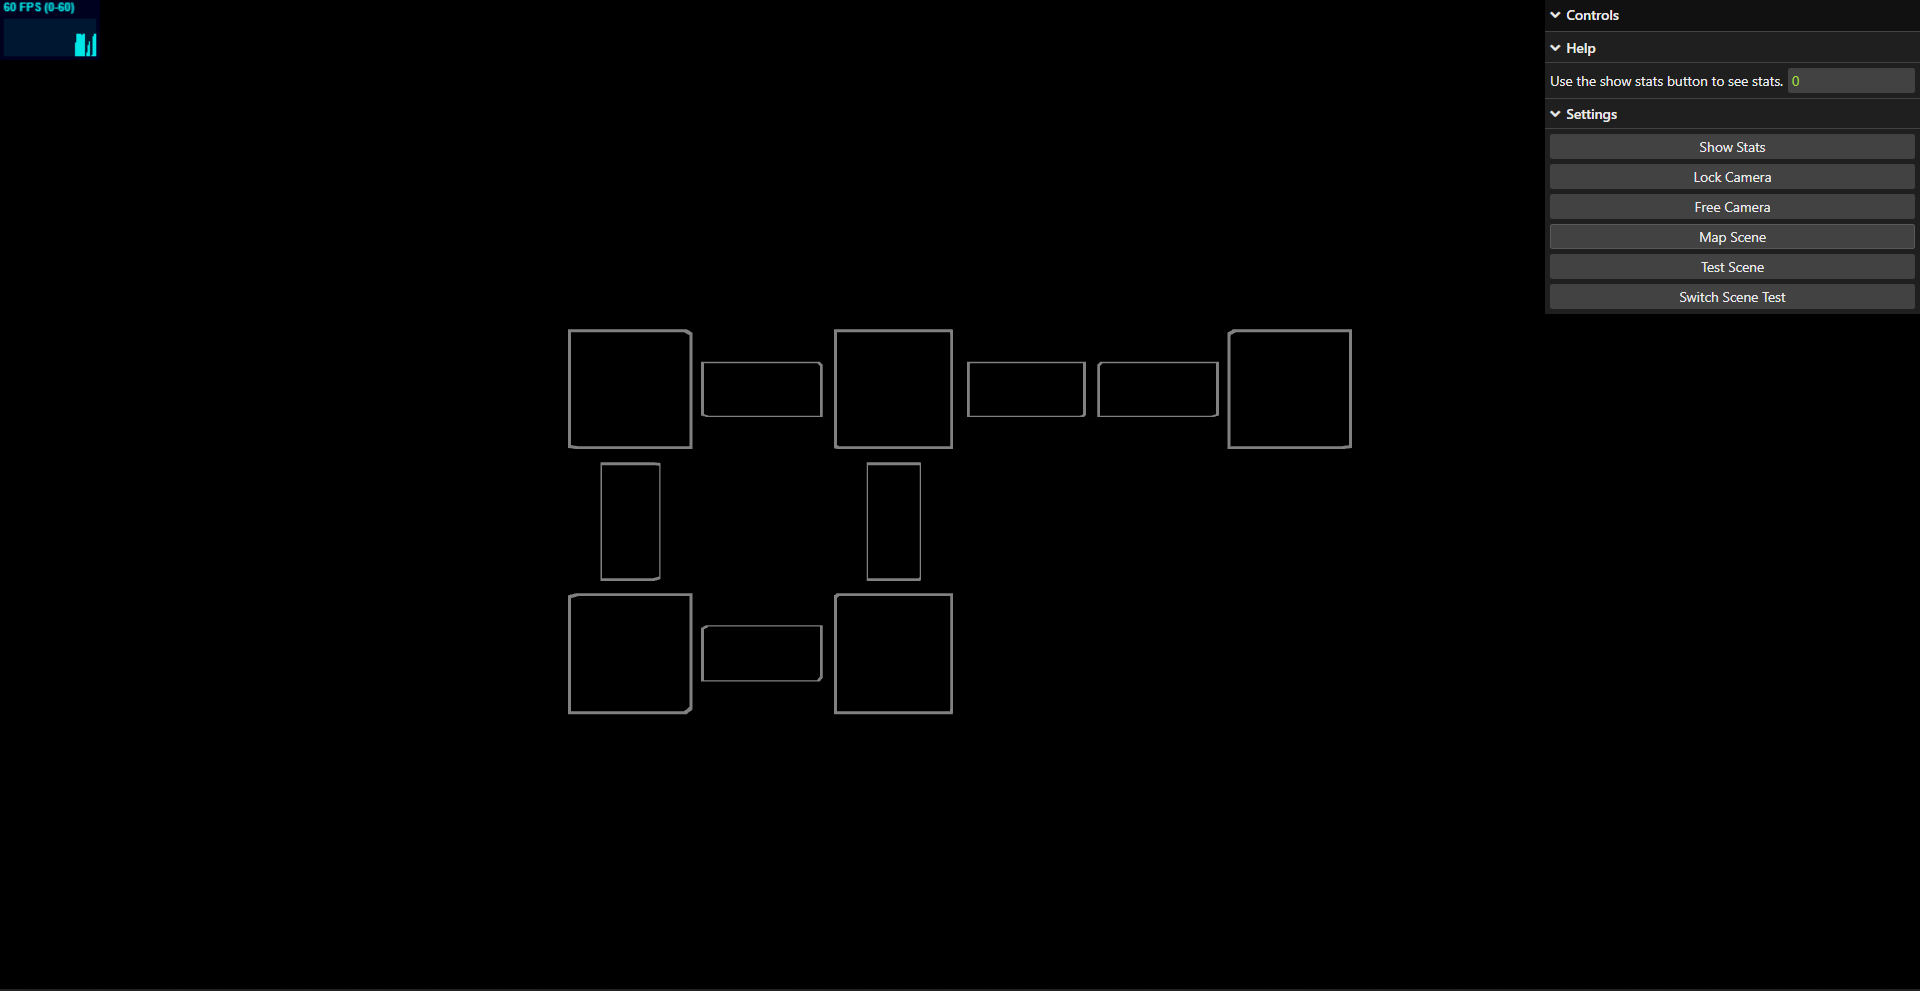
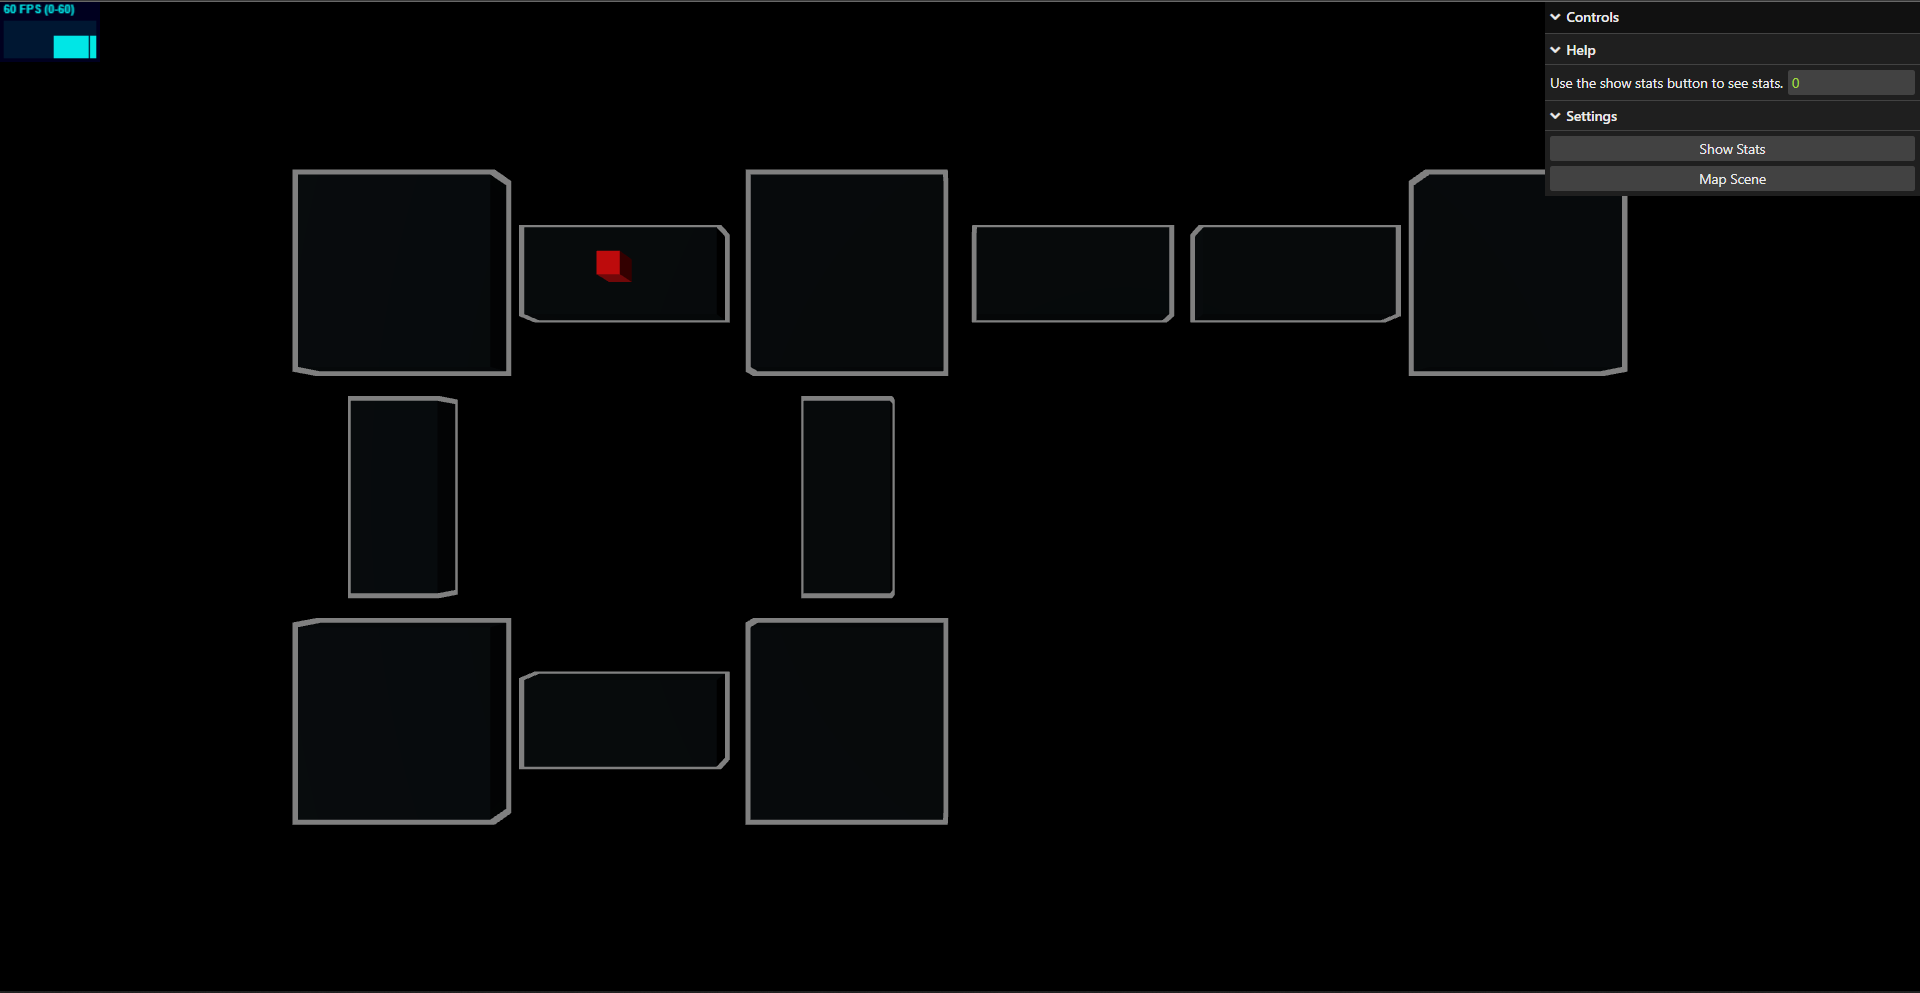
GitBook: [#104] c8 dev part 1 & 1/2 part 2

diff --git a/design-and-development/cycle-7-separate-screens.md b/design-and-development/cycle-7-separate-screens.md
@@ -227,7 +227,7 @@ export { Map, RoomScene }
 
 The reason that the create map scene function is so complicated is because I wanted the map items to have a white outline; this means for each room I had to create two cubes and then make one of them have a THREE.Backside texture. This means that because it is slightly larger than the other cube it appears as on outline.
 
-<figure><img src="../.gitbook/assets/image.png" alt=""><figcaption><p>The outline effect of the map screen.</p></figcaption></figure>
+<figure><img src="../.gitbook/assets/image (1).png" alt=""><figcaption><p>The outline effect of the map screen.</p></figcaption></figure>
 
 **Development Part 3:** Individual Scenes
 
@@ -397,3 +397,60 @@ function createPanel() {
 
 **Development Part 4:** Linking Everything
 
+To link everything it was surprisingly simple as all I had to do was add another for loop that would create DomEvents for every part of the map room. This would then be set to switch the SCENE and CAMERA variables to the relevant ones for the room clicked on.
+
+{% code title="game.js domevent loop" overflow="wrap" %}
+```javascript
+for (let i = 0; i < MAP.scenes.length; i++) {
+    domEvent.addEventListener(MAP.map[i].components[0], "click", (e) => {
+        SCENE = MAP.scenes[i].scene;
+        CAMERA = MAP.scenes[i].camera[0];
+
+    });
+}
+```
+{% endcode %}
+
+{% embed url="https://youtu.be/zZaxlxfCdVI" %}
+Video demonstrating the new working Map Screen.
+{% endembed %}
+
+### Challenges
+
+The main problem I had was when I initially implemented the switching of the scenes it would sometimes switch to a corridor when I clicked on one; but other times it would be a junction. This was because the DomEvents variable was using the camera from the test scene. This meant the rays it was sending were from the wrong camera causing this issue.
+
+{% code title="DomEvents before." %}
+```javascript
+let domEvent = new THREEx.DomEvents( camera, renderer.domElement );
+```
+{% endcode %}
+
+{% code title="DomEvents after." %}
+```javascript
+let domEvent = new THREEx.DomEvents( MapCamera, renderer.domElement );
+```
+{% endcode %}
+
+## Testing
+
+In Cycle 7 I needed to make sure that the scene switching was working correctly, that the map was working correctly and that the DomEvents are triggering in the map screen.
+
+### Tests
+
+**Test 1:** Scene Switching
+
+I needed to make sure that the scene switching was working correctly as the basis for all the other progress that I had made in this development cycle.
+
+| What I expect                                   | What happened                                                        | Pass/Fail |
+| ----------------------------------------------- | -------------------------------------------------------------------- | --------- |
+| The scene and camera will change without error. | The scene and camera correctly change without error.                 | Pass      |
+| Actions in one scene won't affect another.      | The characters in other scenes don't move when I click on the rooms. | Pass      |
+
+**Test 2:** Map Screen Dom Events
+
+It is also important to make sure the map screen works correctly as this will be the basis for the rest of the game.
+
+| What I expect                                                      | What happened                      | Pass/Fail |
+| ------------------------------------------------------------------ | ---------------------------------- | --------- |
+| Clicking on a junction will take me to the correct junction scene. | The correct junction is displayed. | Pass      |
+| Clicking on a corridor will take me to the correct corridor scene. | The correct corridor is displayed. | Pass      |

diff --git a/design-and-development/cycle-8-game-logic.md b/design-and-development/cycle-8-game-logic.md
@@ -26,3 +26,46 @@ In Cycle 8 I want to make sure the key game logic is in place; this means implem
 
 ## Development
 
+**Development Part 1:** Two Methods for moving Characters
+
+To begin this cycle, I wanted to make sure that I can easily move the character between rooms and scenes depending on whether they are currently in the Map View or the Scene View. This meant creating two new methods under the character and enemy classes.
+
+{% code title="characterClasses.js" overflow="wrap" %}
+```javascript
+class Character {
+    constructor(room, mesh, inventory) {
+        this.room = room;
+        this.mesh = mesh;
+        this.inventory = inventory;
+
+    }
+
+    setPos(scene, pos) {
+        scene.add(this.mesh);
+        if (pos) { // it defaults to pos 0,0,0 in rooms, but cant for the map
+            this.mesh.position.set(pos[0], pos[1], pos[2])
+
+        }
+    }
+
+    changeRoom(room, scene) { // moving between scenes
+        this.room = room;
+        this.setPos(scene);
+
+    }
+
+    changeRoomMap(room, scene) { // moving rooms on map
+        let pos = [room.components[0].position.x, 0, room.components[0].position.z];
+        this.setPos(scene, pos);
+
+    }
+}
+```
+{% endcode %}
+
+<figure><img src="../.gitbook/assets/image.png" alt=""><figcaption><p>The character on the map view, clicking moves it around.</p></figcaption></figure>
+
+**Development Part 2:** Moving and Viewing Turns
+
+One of the problems I have is that currently both switching scene views and moving the characters is tied to clicking. Meaning that to begin to implement turns I need to implement different turns for viewing and moving. This will make testing easier and also make much more sense for the game.
+

diff --git a/design-and-development/cycle-5-room-generation-v3.md b/design-and-development/cycle-5-room-generation-v3.md
@@ -280,7 +280,7 @@ This was the most important thing to fix; to do this I just had to add a plus an
 
 The Bloom Pass wasn't actually applying when I was using it; and when it did it would either result in a white screen (error) or it would make the game look horrible. Therefore, for the moment, I have decided to cut the Bloom Pass out as it is not really necessary as the lighting already looks passable without it.
 
-![The Bloom Pass made the game look way worse; and was incompatible with the blue background.](<../.gitbook/assets/image (1).png>)
+![The Bloom Pass made the game look way worse; and was incompatible with the blue background.](<../.gitbook/assets/image (1) (2).png>)
 
 **Code Changed**
 
